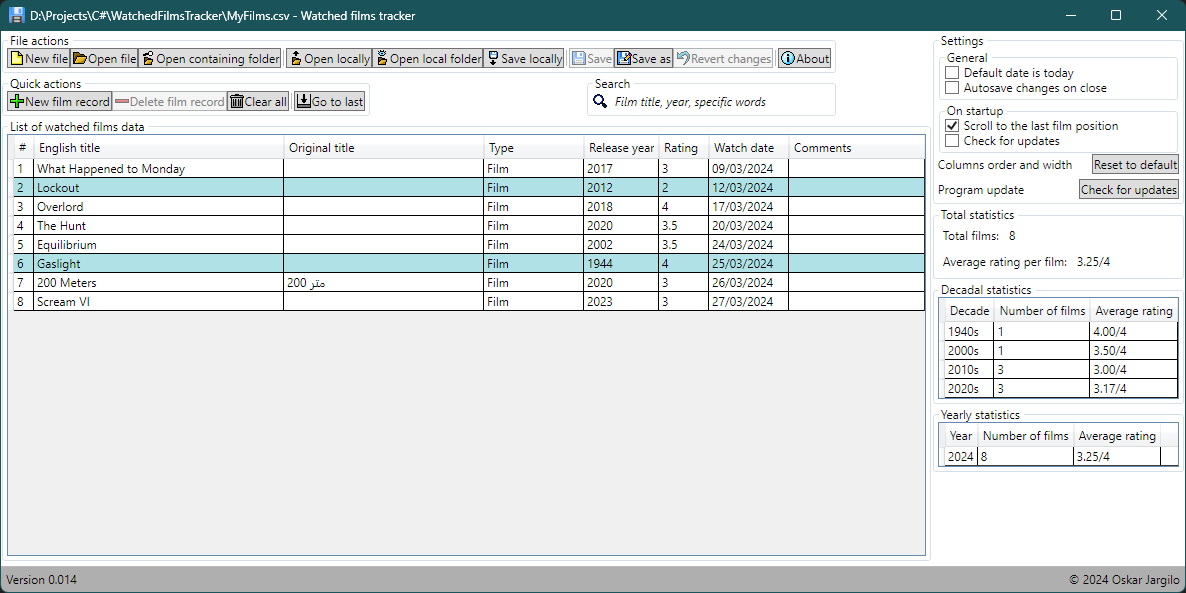
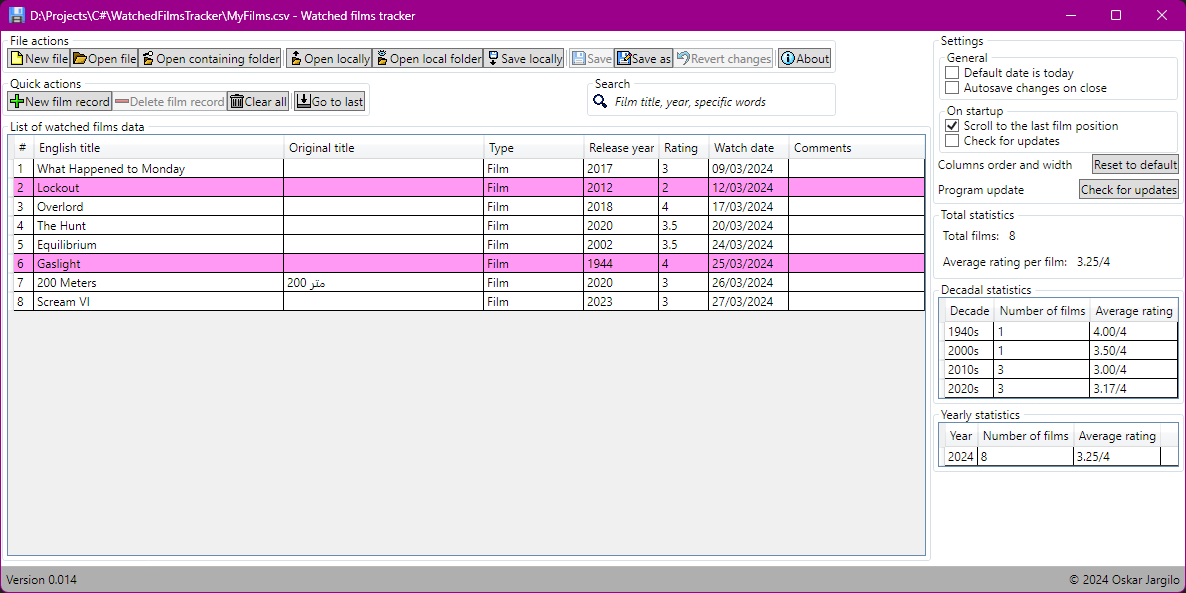
updated readme files, created empty validator classes

Changed region(s): [[0.0, 0.0, 1.0, 1.0], [0.0, 0.425, 0.7799, 0.4857], [0.0, 0.2732, 0.7799, 0.3339]]

diff --git a/Source/Views/MainWindow.xaml b/Source/Views/MainWindow.xaml
@@ -51,6 +51,14 @@
                 <GroupBox>
                     <GroupBox.Header>Total statistics</GroupBox.Header>
                     <StackPanel Orientation="Vertical">
+                        <StackPanel Orientation="Horizontal" Visibility="Collapsed">
+                            <Label Foreground="Red">Wrong release year:</Label>
+                            <Label x:Name="wrongReleaseYearLanel" Foreground="Red"  />
+                        </StackPanel>
+                        <StackPanel Orientation="Horizontal" Visibility="Collapsed">
+                            <Label Foreground="Red">Wrong watch date:</Label>
+                            <Label x:Name="wrongWatchDateLanel" Foreground="Red"  />
+                        </StackPanel>
                         <StackPanel Orientation="Horizontal">
                             <Label>Total films:</Label>
                             <Label x:Name="filmsTotalLabel" Content="{Binding TotalFilmsWatched}" />

diff --git a/Source/SystemAccentColour.cs b/Source/SystemAccentColour.cs
@@ -18,10 +18,13 @@ namespace WatchedFilmsTracker.Source
         public static Color GetBrightAccentColourRGB()
         {
             Color color = GetAccentColourRGB();
+
             // Convert RGB to HSL
             (double h, double s, double l) = RgbToHsl(color.R, color.G, color.B);
-            // Set lightness to 80%
+
+            // Set lightness
             l = 0.85;
+
             // Convert back to RGB
             Color brightColor = HslToRgb(h, s, l);
             return brightColor;

diff --git a/Source/Models/ProgramInformation.cs b/Source/Models/ProgramInformation.cs
@@ -8,7 +8,7 @@ namespace WatchedFilmsTracker.Source.Models
 {
     internal static class ProgramInformation
     {
-        public static readonly string VERSION = "Version 0.014";
+        public static readonly string VERSION = "Version 0.015";
         public static readonly string PROGRAM_NAME = "Watched films tracker";
         public static readonly string COPYRIGHT = "© 2024 Oskar Jargilo";
     }

diff --git a/Source/RecordValueValidator/ReleaseYearValidator.cs b/Source/RecordValueValidator/ReleaseYearValidator.cs
@@ -1,0 +1,12 @@
+using System;
+using System.Collections.Generic;
+using System.Linq;
+using System.Text;
+using System.Threading.Tasks;
+
+namespace WatchedFilmsTracker.Source.RecordValueValidator
+{
+    internal class ReleaseYearValidator
+    {
+    }
+}

diff --git a/Source/RecordValueValidator/WatchDateValidator.cs b/Source/RecordValueValidator/WatchDateValidator.cs
@@ -1,0 +1,12 @@
+using System;
+using System.Collections.Generic;
+using System.Linq;
+using System.Text;
+using System.Threading.Tasks;
+
+namespace WatchedFilmsTracker.Source.RecordValueValidator
+{
+    internal class WatchDateValidator
+    {
+    }
+}

diff --git a/README.md b/README.md
@@ -16,7 +16,7 @@ Watched Films Tracker is a comprehensive application designed to help film enthu
 
 ## Screenshots
 
-![Main page](https://github.com/OskarKamil/WatchedFilmsWPF/blob/main/External/screenshots%20of%20versions/0.014.png?raw=true)
+![Main page](https://github.com/OskarKamil/WatchedFilmsWPF/blob/main/External/screenshots%20of%20versions/0.014.png?raw=true)  
 *Screenshot 1: Main interface displaying the list of films*
 
 ## Requirements
@@ -26,16 +26,36 @@ Watched Films Tracker is a comprehensive application designed to help film enthu
 - **.NET Framework:** The .NET framework is required, which is typically pre-installed on Windows systems.
 - **Additional Libraries:** None
 
-## Usage
+## Limitations
 
-To download and run this project, follow these steps:
+Currently, the application only allows reading text and CSV files with the specific number of columns: English title, original title, type, release year, personal rating, watch date, and comments. The application will not work with files that have a different number of columns or a different column order. If the file has more columns, the application will ignore columns not included in the specifications, which will lead to data loss. Work is ongoing to allow more flexibility in the file reading process. In the upcoming releases, the application will be able to read files with any number of columns and any column order, and it will let users edit the columns in the program interface. Users will be able to delete, add, or remove columns from the file.
 
-1. Navigate to the [Releases](https://github.com/OskarKamil/WatchedFilmsWPF/releases) section on GitHub.
-2. Click on the latest release.
-3. Download the archive file.
-4. Extract the contents of the archive using a tool like 7-Zip.
-5. Open the extracted folder.
-6. Run the executable file (`.exe`). Note that you may need the .NET redistributable installed, but it is usually included by default on recent Windows systems.
+## Usage 
+### 1. Clone Code and Run in Visual Studio
+
+Clone the repository from GitHub:
+```
+git clone https://github.com/OskarKamil/WatchedFilmsWPF.git
+```
+- Open the cloned repository in Visual Studio.
+- Build and run the project within Visual Studio.
+
+### 2. First Time User: Download and Run the Executable
+
+- Navigate to the Releases section on GitHub.
+- Click on the latest release.
+- Download the archive file.
+- Extract the contents of the archive using a tool like 7-Zip.
+- Open the extracted folder.
+- Run the executable file (.exe). Note that you may need the .NET redistributable installed, but it is usually included by default on recent Windows systems.
+
+### 3. Updating the Application
+
+- Navigate to the Releases section on GitHub.
+- Click on the latest release.
+- Download the new executable file (.exe).
+- Copy the new executable file into your program directory, replacing the old one.
+- Optionally, copy the new ExampleFile.txt and ReadMe.txt files if there are updates to these documents.
 
 ## Contributing
 
